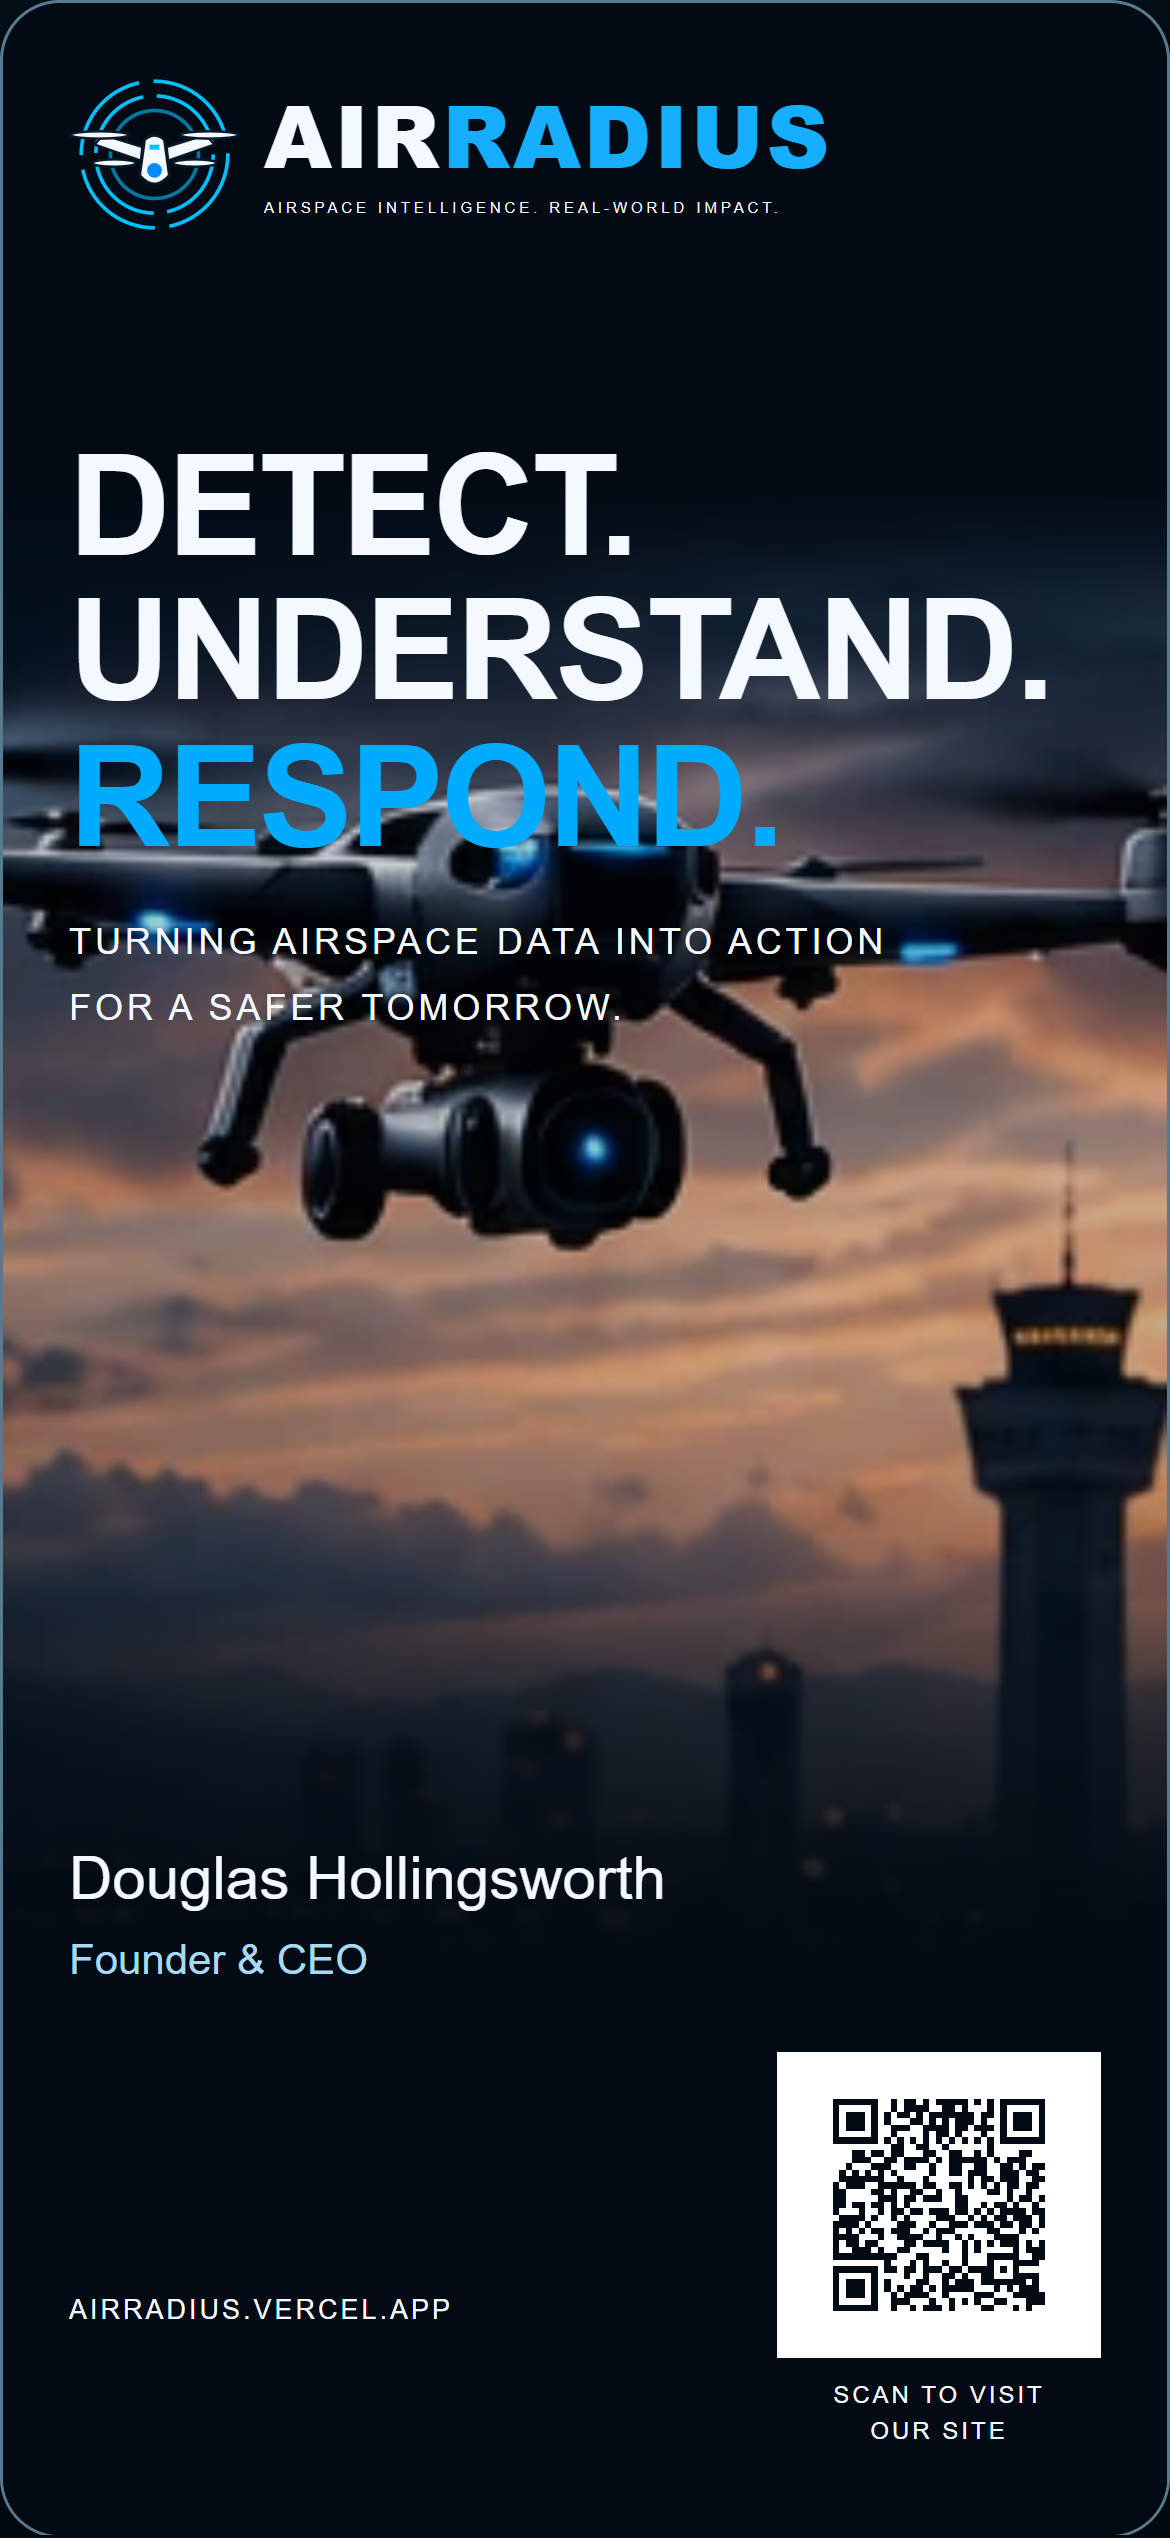
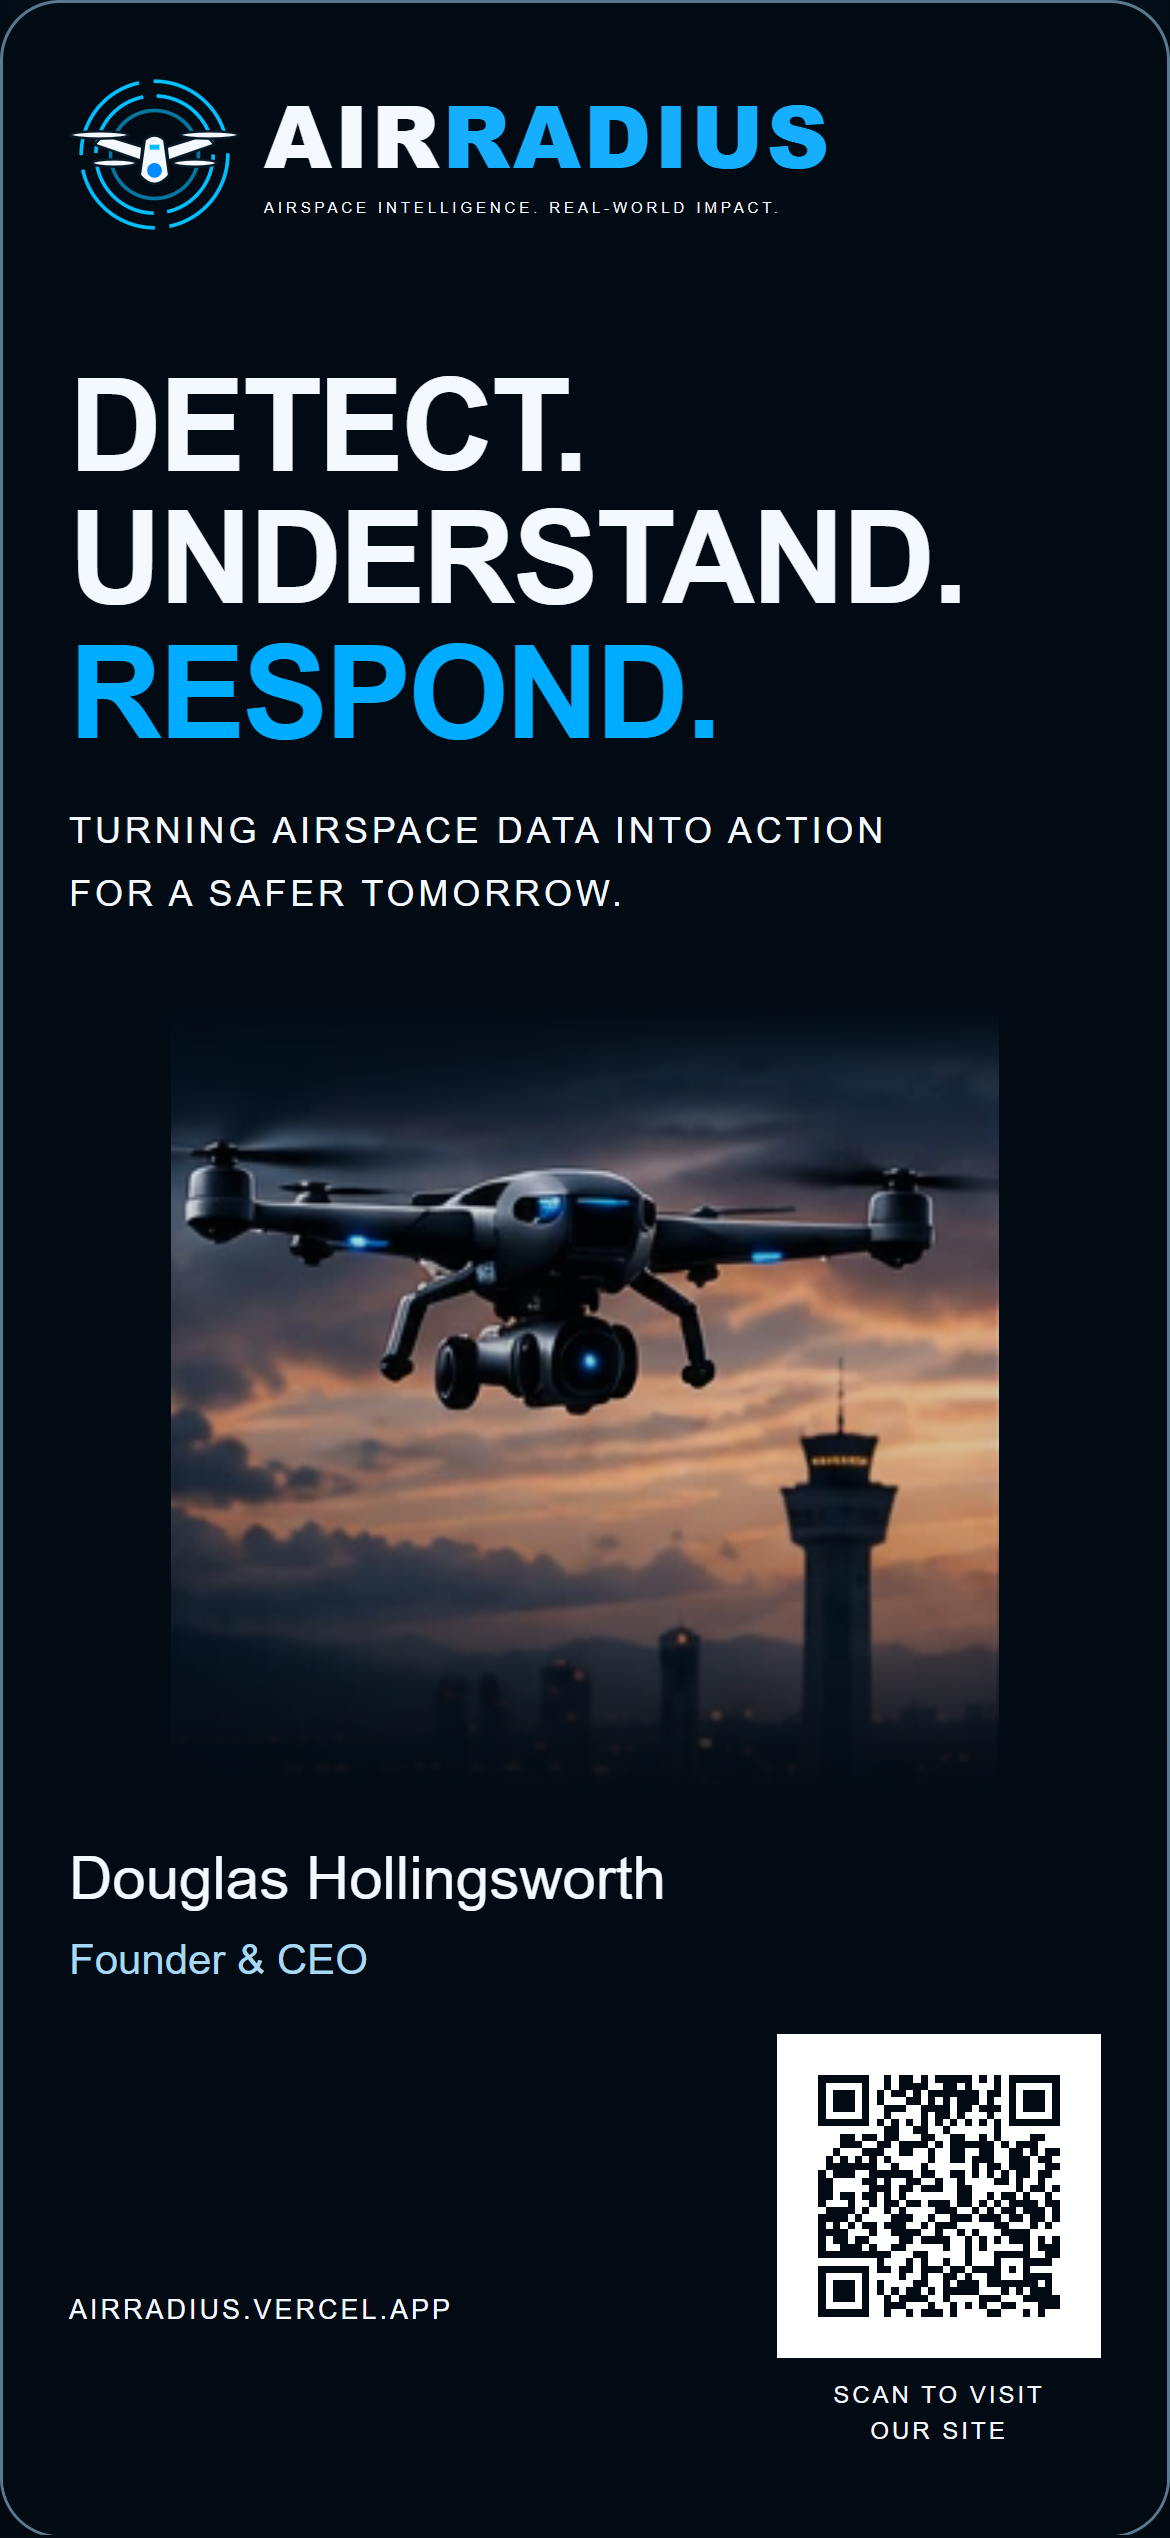
Refine mobile artwork and phone-readable card exports

diff --git a/css/brand.css b/css/brand.css
@@ -1,2 +1,12 @@
 :root{--bg:#020b14;--panel:#071927;--cyan:#00bfff;--blue:#008cff;--white:#f4f9ff;--muted:#b3c5d6;--line:#224052;color-scheme:dark}*{box-sizing:border-box}html{scroll-behavior:smooth;scroll-padding-top:105px}body{margin:0;background:var(--bg);color:var(--white);font-family:Arial,Helvetica,sans-serif;line-height:1.5}a{color:inherit;text-decoration:none}button{font:inherit;cursor:pointer}img{max-width:100%;display:block}a:focus-visible,button:focus-visible{outline:3px solid #83e4ff;outline-offset:5px}.skip{position:absolute;top:-80px;left:12px;background:#fff;color:#000;padding:12px;z-index:10}.skip:focus{top:10px}.sr-only{position:absolute;width:1px;height:1px;padding:0;margin:-1px;overflow:hidden;clip:rect(0,0,0,0);white-space:nowrap;border:0}.site-header{display:flex;align-items:center;gap:25px;padding:18px 3%;border-bottom:1px solid var(--line);background:linear-gradient(100deg,#02070d,#030f1a);position:relative;z-index:2}.brand{display:flex;align-items:center;gap:12px;flex-shrink:0}.wordmark{font-size:clamp(25px,3vw,43px);font-weight:900;letter-spacing:1px;line-height:1.1;display:block}.wordmark>span{color:#16afff}.brand small{display:block;font-size:8px;letter-spacing:2px;margin-top:5px}.site-header nav{display:flex;gap:22px;margin-left:auto;font-size:13px}.site-header nav a{padding:10px 0;border-bottom:2px solid transparent}.site-header nav a:hover{color:var(--cyan);border-color:var(--cyan)}.button{display:inline-flex;align-items:center;justify-content:center;gap:20px;min-height:47px;border:1px solid var(--cyan);background:linear-gradient(100deg,#008cff,#006ef4);padding:11px 25px;border-radius:25px;font-weight:600;font-size:14px}.button:hover{filter:brightness(1.17)}.button.outline{background:#020b14b8;color:var(--white)}.header-action{border-radius:13px;color:var(--cyan)!important;white-space:nowrap;padding-inline:20px}.menu-toggle{display:none}.hero{min-height:490px;position:relative;overflow:hidden;background:#050d17;border-bottom:1px solid var(--line)}.hero-sunset{position:absolute;inset:0 39% 0 0;background:linear-gradient(90deg,#020b14 0%,#020b1420 58%,#020b1450),linear-gradient(0deg,#020b14 0%,transparent 40%),url('/assets/drone-sunset.webp') center right/cover no-repeat}.command-art{position:absolute;right:0;top:0;width:52%;height:100%;object-fit:cover;opacity:.85;mask-image:linear-gradient(90deg,transparent,#000 18%)}.hero-copy{position:relative;z-index:1;padding:38px 6% 34px;max-width:820px}.eyebrow{font-size:10px;letter-spacing:2.5px;font-weight:600;color:#cadceb;margin:0 0 20px}.hero h1{font-size:clamp(36px,4.2vw,65px);font-weight:900;line-height:1.04;letter-spacing:-1.8px;margin:18px 0 20px;text-shadow:0 3px 16px #000}.hero h1 span{color:#00acff}.hero-description{font-size:clamp(16px,1.6vw,22px);letter-spacing:.4px;color:#d4e0eb;line-height:1.5;margin:0 0 26px;text-shadow:0 2px 10px #000}.actions{display:flex;gap:12px;flex-wrap:wrap}.mode-note{font-size:11px;color:#c7d9e8;margin:22px 0 0}.mode{font-size:9px;border:1px solid #2c789a;color:#88dfff;border-radius:4px;padding:4px 6px;margin-right:7px;letter-spacing:.8px;background:#03111ddd}.hero-caption{position:absolute;bottom:38px;right:4%;font-size:14px;letter-spacing:3px;text-transform:uppercase;line-height:1.9;text-shadow:0 2px 10px #000}.capabilities{display:grid;grid-template-columns:repeat(5,1fr);padding:19px 3%;border-bottom:1px solid var(--line);background:linear-gradient(90deg,#020b14,#04121d)}.capabilities a{display:flex;align-items:center;gap:20px;border-right:1px solid #426175;padding:0 24px}.capabilities a:last-child{border:0}.cap-icon{font-size:39px;color:#2dbfff;line-height:1}.capabilities strong{font-size:11px;letter-spacing:1.5px;display:block}.capabilities small{color:#b9c9d6;display:block;font-size:11px;margin-top:5px}.section-shell{padding:24px 3%;max-width:1600px;margin:auto}.section-heading{display:flex;align-items:center;justify-content:space-between;gap:20px;margin:0 0 17px}.section-heading h2{font-size:19px;margin:0}.section-heading p{font-size:12px;color:var(--muted);margin:0}.use-grid{display:grid;grid-template-columns:repeat(4,1fr);gap:13px}.use-card{border:1px solid #436379;border-radius:10px;overflow:hidden;background:linear-gradient(#071725,#01080e);transition:border-color .15s}.use-card:hover{border-color:var(--cyan)}.use-card img{width:100%;height:108px;object-fit:cover;mask-image:linear-gradient(#000 60%,transparent)}.use-card div{padding:9px 16px 17px;position:relative}.use-card h3{font-size:12px;letter-spacing:1.1px;text-transform:uppercase;margin:0 0 6px}.use-card p{font-size:11px;color:var(--muted);margin:0;max-width:90%}.use-card div>span{position:absolute;right:13px;top:24px}.brand-band{display:flex;align-items:center;justify-content:space-between;gap:25px;padding-top:18px;padding-bottom:36px;border-bottom:1px solid var(--line)}.brand-band strong{font-size:12px;letter-spacing:3px;line-height:1.9}.brand-band p{font-size:12px;color:var(--muted);font-style:italic;letter-spacing:1.3px}.brand-band>span{font-size:10px;letter-spacing:2px}.detail-section{padding-top:62px;padding-bottom:62px;border-bottom:1px solid var(--line)}.detail-section h2{font-size:clamp(26px,3vw,38px);margin:0 0 24px;line-height:1.18}.detail-section .eyebrow{color:var(--cyan);margin-bottom:12px}.detail-grid{display:grid;grid-template-columns:repeat(3,1fr);gap:25px}.detail-grid article{background:#07192780;border:1px solid var(--line);border-radius:10px;padding:24px}.detail-grid h3{font-size:18px;margin:0 0 12px}.detail-grid p,.readable{color:var(--muted);font-size:15px;line-height:1.8}.readable{max-width:720px}.text-link{display:inline-block;color:#59d2ff;margin-top:20px}.founder{display:flex;align-items:center;gap:20px;margin-top:30px}.founder h3{margin:0;font-size:22px}.founder p{color:var(--muted);margin:4px 0}.founder .text-link{margin-top:8px}.contact-section{background:radial-gradient(ellipse at right,#072c43,transparent 65%)}footer{display:flex;gap:20px;justify-content:space-between;color:var(--muted);font-size:11px}footer a{color:#59d2ff}.card-page{min-height:100vh;background:radial-gradient(ellipse at 50% 15%,#0e2c44,transparent 70%),var(--bg)}.card-main{max-width:1040px;margin:auto;padding:55px 25px}.card-intro{text-align:center;margin-bottom:32px}.card-intro h1{font-size:29px;margin:0 0 8px}.card-intro p{color:var(--muted)}.digital-card{position:relative;overflow:hidden;border:1px solid #59798f;border-radius:20px;background:#020b14;box-shadow:0 20px 70px #0008;aspect-ratio:1.8;max-width:850px;margin:auto}.digital-card .card-landscape{position:absolute;right:0;top:0;width:65%;height:100%;object-fit:cover;opacity:.85;mask-image:linear-gradient(90deg,transparent,#000 28%)}.card-content{position:relative;z-index:1;padding:25px 30px;height:100%;background:linear-gradient(0deg,#020b14 0%,transparent 42%)}.digital-card .brand img{width:70px;height:70px}.digital-card .wordmark{font-size:37px}.card-tagline{position:absolute;right:25px;top:25px;font-size:8px;letter-spacing:1.5px;color:#d0e6f4}.digital-card h2{font-size:clamp(23px,3.5vw,43px);line-height:1.03;margin:24px 0 14px;letter-spacing:-1px}.digital-card h2 span{color:#00acff}.card-description{font-size:12px;letter-spacing:1.3px;max-width:370px;text-transform:uppercase;line-height:1.8}.card-founder{position:absolute;left:30px;bottom:26px}.card-founder strong{font-size:20px;font-weight:500;display:block}.card-founder span{color:#a9d8f3;font-size:14px}.card-qr{position:absolute;right:26px;bottom:26px;width:102px;text-align:center}.card-qr img{width:100%;background:#fff;padding:7px}.card-qr small{display:block;font-size:8px;letter-spacing:1px;margin-top:7px}.card-url{position:absolute;right:153px;bottom:30px;font-size:10px;letter-spacing:1.5px}.card-tools{display:flex;flex-wrap:wrap;justify-content:center;gap:12px;margin-top:27px}.card-tools .button{font-size:12px;padding-inline:18px}.card-note{text-align:center;color:var(--muted);font-size:12px;max-width:650px;margin:22px auto}.share-status{text-align:center;color:#9ce5ff;min-height:24px;font-size:13px}@media(min-width:1600px){.hero{min-height:570px}.hero-copy{padding-top:65px}}@media(max-width:1150px){.site-header{gap:18px}.site-header nav{gap:13px}.brand img{width:58px;height:58px}.wordmark{font-size:30px}.brand small{font-size:6px}.header-action{font-size:12px;padding-inline:12px}.capabilities a{padding-inline:12px;gap:10px}.cap-icon{font-size:30px}.capabilities small{font-size:10px}}@media(max-width:900px){.site-header{flex-wrap:wrap;padding:14px 4%}.site-header nav{order:3;width:100%;justify-content:center}.header-action{margin-left:auto}.hero-copy{padding-left:5%;padding-top:35px}.hero h1{font-size:48px}.hero-caption{display:none}.hero{min-height:470px}.command-art{width:50%;opacity:.55}.hero-sunset{right:24%}.capabilities a{flex-direction:column;align-items:flex-start;gap:6px}.use-grid{grid-template-columns:repeat(2,1fr)}.use-card img{height:125px}.section-heading{display:block}.section-heading p{margin-top:7px}.brand-band{flex-wrap:wrap}.detail-grid{grid-template-columns:1fr}.card-tagline{display:none}.digital-card .wordmark{font-size:30px}.digital-card .brand img{width:56px;height:56px}.digital-card h2{margin-top:15px}.card-description{font-size:10px;max-width:285px}.card-founder strong{font-size:17px}.card-qr{width:90px;right:20px;bottom:20px}.card-url{right:130px;font-size:8px}}@media(max-width:600px){html{scroll-padding-top:15px}.site-header{gap:12px}.brand img{width:48px;height:48px}.wordmark{font-size:27px}.brand small{font-size:5px;letter-spacing:1.3px}.header-action{display:none}.menu-toggle{display:block;margin-left:auto;background:transparent;color:var(--white);border:1px solid var(--line);border-radius:7px;padding:8px 12px;font-size:13px}.site-header nav{display:none;flex-wrap:wrap;justify-content:flex-start;gap:4px 22px;margin:0}.site-header nav.open{display:flex}.site-header nav a{padding:10px 0;min-width:75px}.hero{min-height:580px}.hero-sunset{inset:0;background:linear-gradient(90deg,#020b14cf,#020b1420),linear-gradient(0deg,#020b14 2%,transparent 65%),url('/assets/drone-sunset.webp') right center/cover no-repeat}.command-art{display:none}.hero-copy{padding:44px 6% 34px}.hero h1{font-size:clamp(35px,9.3vw,56px);margin-top:23px}.hero .eyebrow{font-size:8px;max-width:270px;line-height:1.8}.hero-description{font-size:17px;margin-top:24px}.hero .actions{flex-direction:column;align-items:flex-start;gap:12px}.hero .button{min-width:210px}.mode-note{font-size:10px;max-width:280px;line-height:2.4}.capabilities{grid-template-columns:repeat(2,1fr);gap:18px;padding:24px 6%}.capabilities a{flex-direction:row;border:0;gap:14px;padding:0}.capabilities a:last-child{grid-column:span 2}.capabilities strong{font-size:10px}.capabilities small{font-size:10px}.section-shell{padding-left:6%;padding-right:6%}.use-grid{grid-template-columns:1fr}.use-card img{height:145px}.use-card h3{font-size:13px}.use-card p{font-size:12px}.brand-band{gap:12px;padding-top:20px}.brand-band p{font-size:11px}.detail-section{padding-top:43px;padding-bottom:43px}footer{flex-direction:column;gap:9px}.card-main{padding:30px 16px}.digital-card{aspect-ratio:auto;min-height:600px;max-width:400px}.digital-card .card-landscape{width:100%;height:70%;top:80px;opacity:.8;mask-image:linear-gradient(0deg,transparent,#000 25%,#000 80%,transparent)}.card-content{padding:22px;height:600px}.digital-card .brand{gap:8px}.digital-card .wordmark{font-size:29px}.digital-card .brand img{width:57px;height:57px}.digital-card h2{font-size:39px;margin-top:32px}.card-description{font-size:11px;max-width:270px}.card-founder{left:22px;bottom:135px}.card-founder strong{font-size:20px}.card-qr{width:82px;bottom:23px;right:22px}.card-url{left:22px;right:auto;bottom:43px;font-size:8px;letter-spacing:1px}.card-tools .button{flex:1 1 135px}.card-intro h1{font-size:24px}}@media(prefers-reduced-motion:reduce){html{scroll-behavior:auto}*{transition:none!important}}
 .card-demo-link{margin-left:auto}.card-return{text-align:center}
+/* Keep concept artwork at a legible scale and away from card text. */
+.hero-sunset{background:linear-gradient(90deg,#020b14 0%,#020b1480 42%,transparent 75%),linear-gradient(0deg,#020b14,transparent 60%),url('/assets/drone-sunset.webp') right center/auto 340px no-repeat}
+.digital-card .card-landscape{width:44%;height:225px;top:90px;right:15px;object-fit:contain;mask-image:linear-gradient(0deg,transparent,#000 20%,#000 80%,transparent)}
+.card-qr{width:220px}.card-qr img{padding:4px}.card-url{left:30px;right:auto;bottom:88px;letter-spacing:1px}
+@media(min-width:601px) and (max-width:900px){.card-qr{width:170px}.card-url{left:30px;bottom:82px}.digital-card .card-landscape{height:170px;top:75px}}
+@media(max-width:600px){.hero{min-height:780px}.hero-sunset{inset:0;background:linear-gradient(0deg,#020b14 0%,transparent 25%,#020b14 51%),url('/assets/drone-sunset.webp') center bottom 12px/auto 280px no-repeat}.digital-card{min-height:700px}.card-content{height:700px}.digital-card .card-landscape{top:300px;height:220px;width:90%;right:5%;object-fit:contain;opacity:.85}.card-founder{bottom:130px}.card-qr{width:90px;bottom:20px}.card-url{left:22px;bottom:48px;font-size:8px}}
+/* Export class shares the real card component and obeys the strict CSP. */
+.digital-card.export-portrait{max-width:390px;min-height:844px}.export-portrait .card-content{height:844px}.digital-card.export-portrait h2{margin-top:40px;font-size:43px}.digital-card.export-portrait .card-landscape{top:335px;height:260px;width:90%;right:5%;object-fit:contain}.export-portrait .card-founder{bottom:180px}.export-portrait .card-qr{width:108px;bottom:28px}.export-portrait .card-url{bottom:68px;font-size:9px}.export-portrait .card-description{font-size:12px;max-width:290px}
+.card-qr img{height:auto;aspect-ratio:1}
+@media(min-width:901px){.digital-card .card-landscape{top:74px;height:142px;right:26px;width:220px}}
